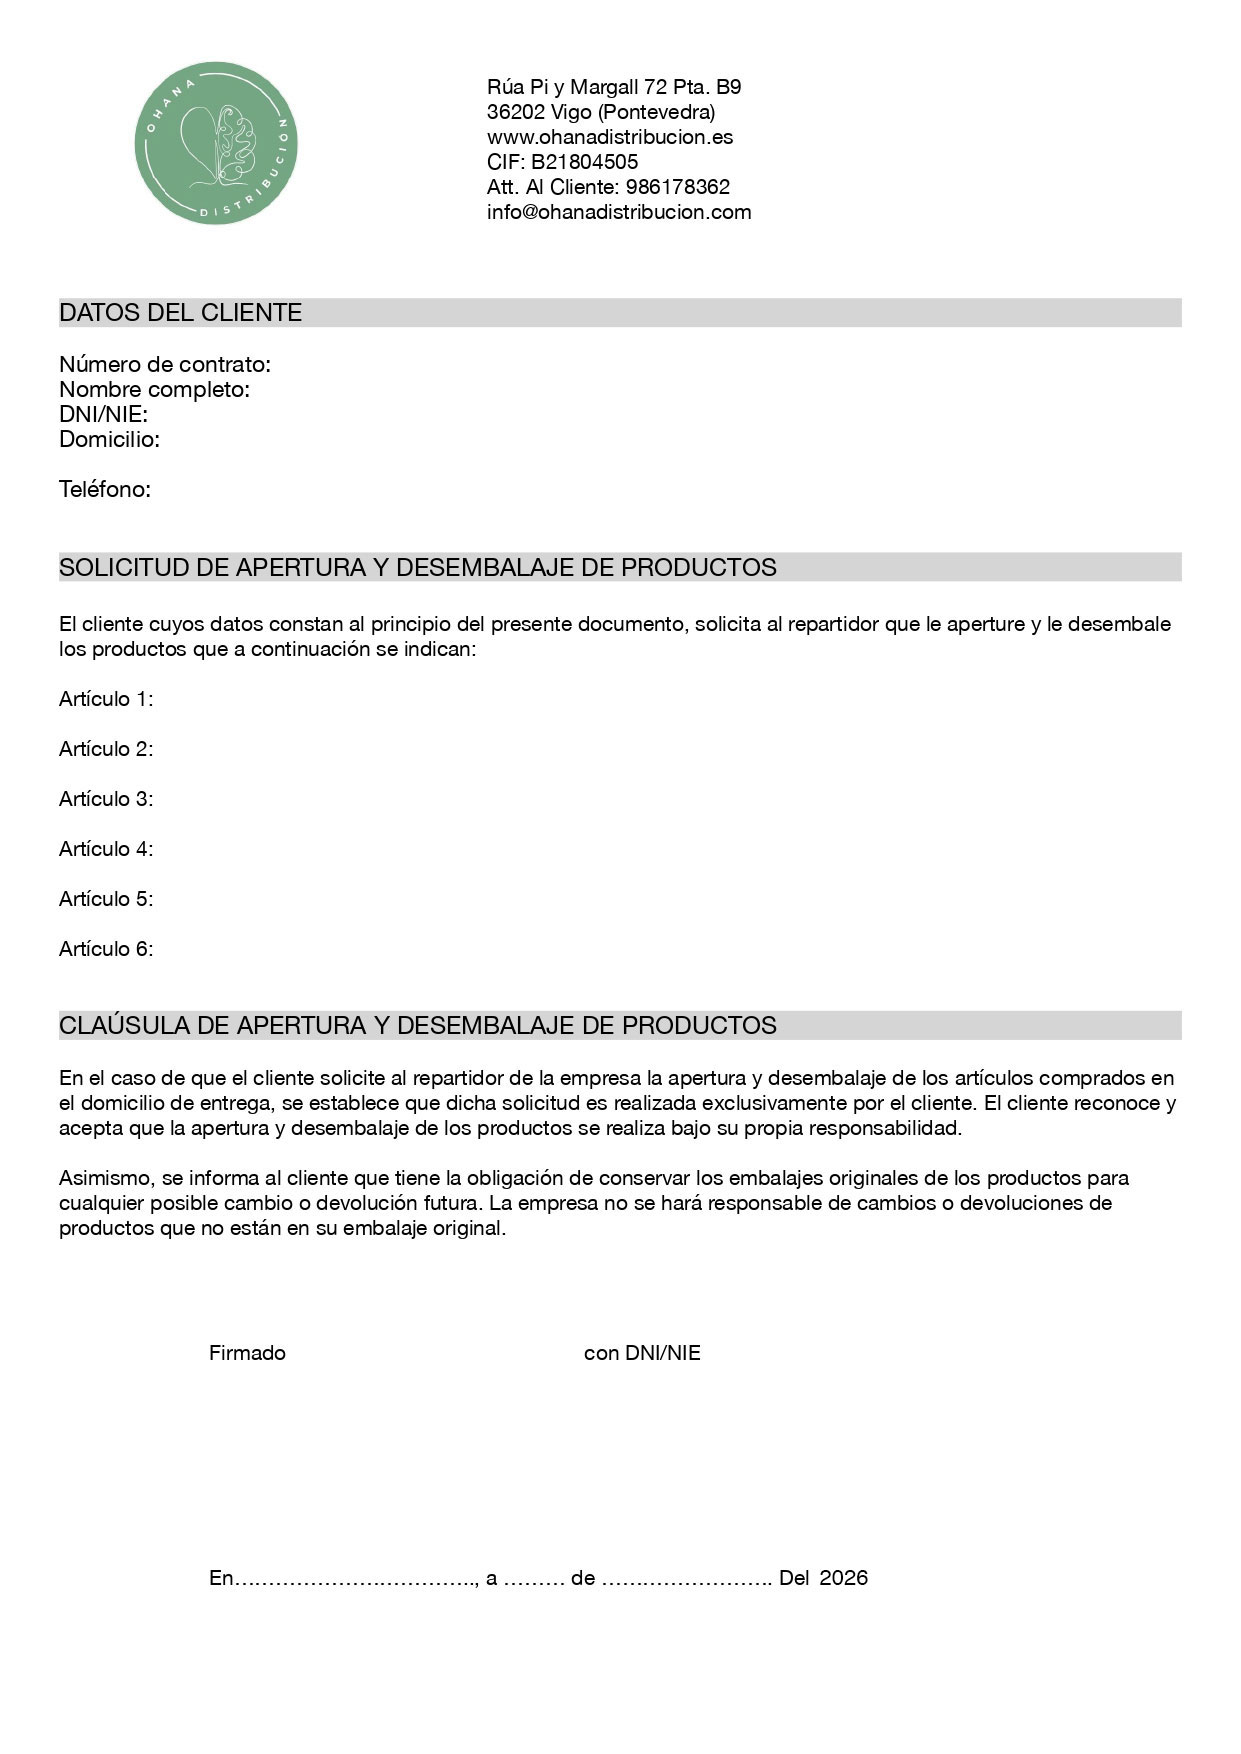
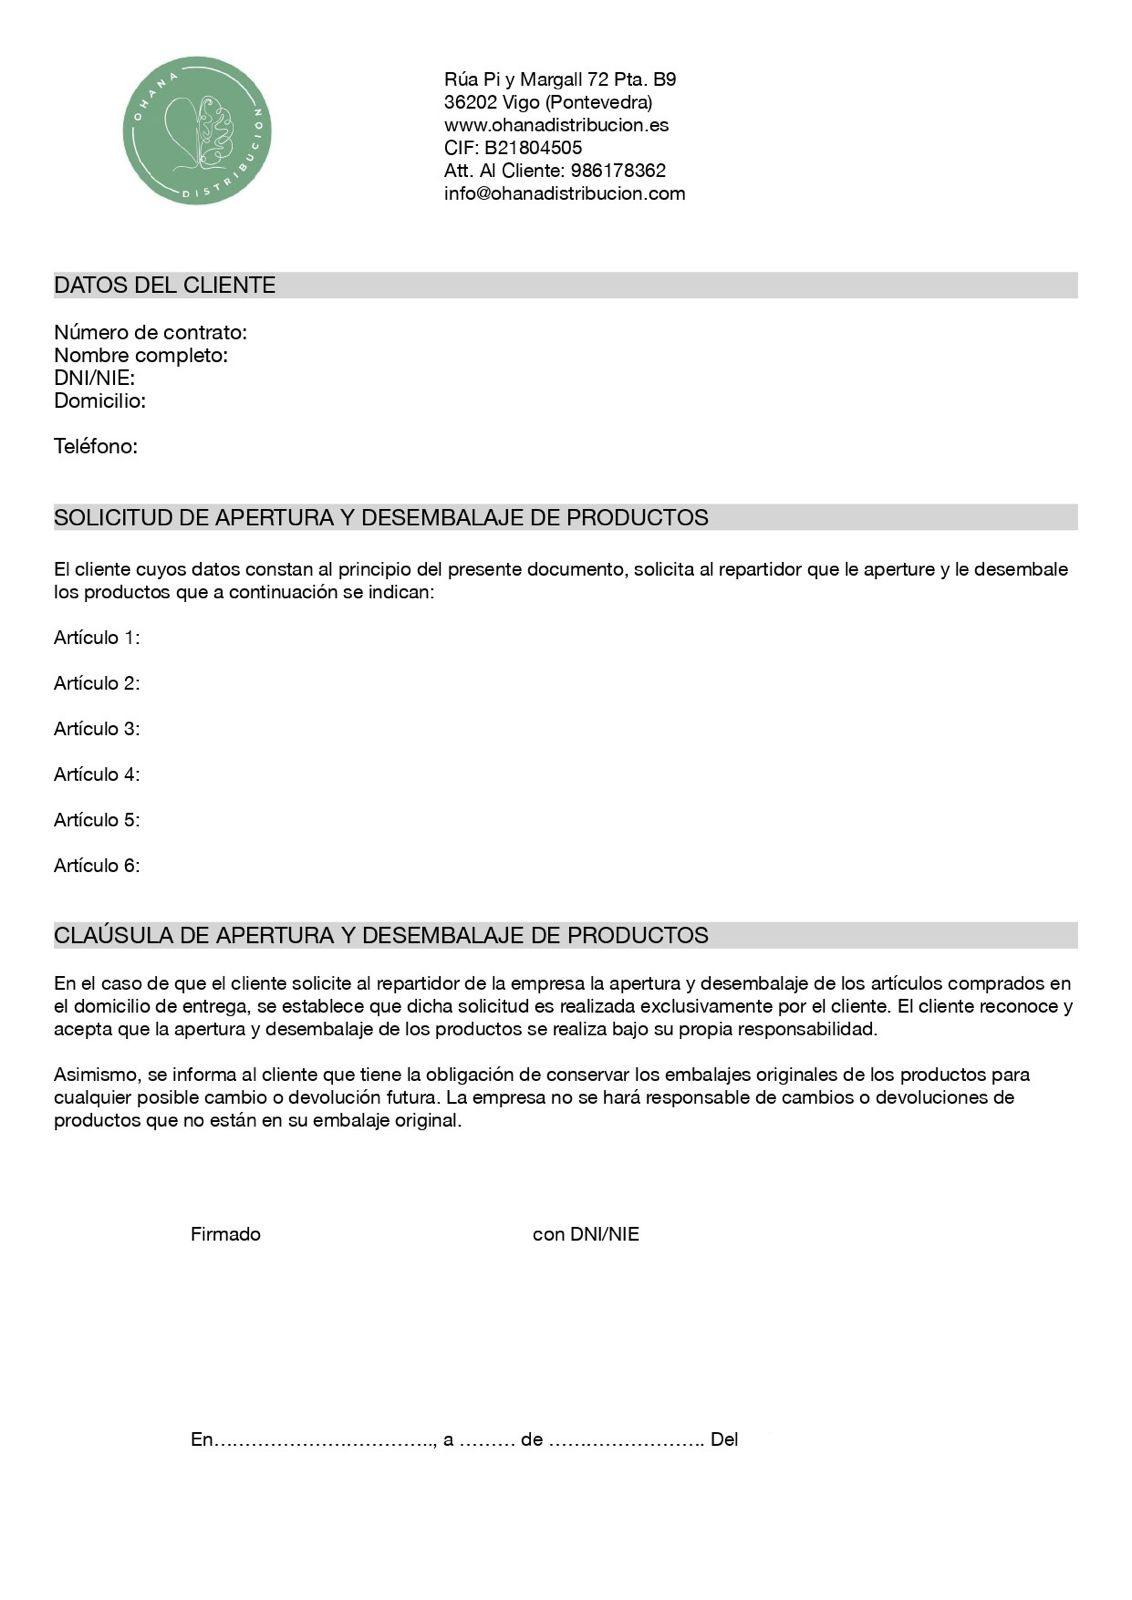
arreglo de fecha de contrato en el pdf de los contratos :sparkles:

Changed region(s): [[0.6802, 0.875, 0.7111, 0.9062]]

diff --git a/resources/views/pdf_pos.blade.php b/resources/views/pdf_pos.blade.php
@@ -275,6 +275,34 @@
 
     // ===== Pasadas: 0 = Original (con anexos), 1 = Copia (con anexos, sin productos ni importes), 2 = Copia-B (igual que copia, pero nro_contr_adm -B) =====
     $__passes = [0, 1, 2];
+
+    // ===== Año del contrato (año de la fecha de venta) =====
+    // Ajusta el campo de fecha según tu modelo: fecha_venta / sale_date / created_at, etc.
+    $fechaVenta = $venta->fecha_venta
+        ? Carbon::parse($venta->fecha_venta)
+        : Carbon::parse($venta->created_at);
+
+    $anioContrato = $fechaVenta->format('Y');
+
+    // ===== Footer (abajo) =====
+    $yYear = (float) request('yyear', 283.0); // mm (casi al final de la hoja A4)
+    $xYear = (float) request('xyear', 122.0); // centro horizontal (105mm en A4)
+    $wYear = (float) request('wyear', 60.0);  // ancho del bloque para centrar texto
+
+    $anioContrato2 = $fechaVenta->format('Y');
+
+    // ===== Footer (abajo) =====
+    $yYear2 = (float) request('yyear', 283.0); // mm (casi al final de la hoja A4)
+    $xYear2 = (float) request('xyear', 99.0); // centro horizontal (105mm en A4)
+    $wYear2 = (float) request('wyear', 60.0);  // ancho del bloque para centrar texto
+
+    $anioContrato3 = $fechaVenta->format('Y');
+
+    // ===== Footer (abajo) =====
+    $yYear3 = (float) request('yyear', 265.0); // mm (casi al final de la hoja A4)
+    $xYear3 = (float) request('xyear', 143.0); // centro horizontal (105mm en A4)
+    $wYear3 = (float) request('wyear', 60.0);  // ancho del bloque para centrar texto
+
 @endphp
 
 <!DOCTYPE html>
@@ -493,6 +521,12 @@
                     style="top:{{ $yFirmas }}mm; left:{{ $xFirmaEmp }}mm; width:{{ $wFirma }}mm; text-align:center;"></div>
             </div>
 
+            <div class="field"
+                style="top:{{ $yYear }}mm; left:{{ $xYear }}mm; width:{{ $wYear }}mm; text-align:center; transform:translateX(-50%);">
+                {{ $anioContrato }}
+            </div>
+
+
             {{-- Firma de la Empresa (imagen) --}}
             <img class="sig" src="{{ str_replace('\\', '/', public_path('images/FirmaEmpresa.png')) }}" alt="Firma Empresa"
                 style="top: {{ $yFirmas - 18 }}mm; left: {{ $xFirmaEmp + 5 }}mm; width: 35mm; height: auto;" />
@@ -504,6 +538,10 @@
             <div class="surface" style="transform: translate({{ $dx }}mm, {{ $dy }}mm) scale({{ $sx }}, {{ $sy }});">
                 <div class="field" style="top:{{ $yP2_Dni }}mm; left:{{ $xP2_Dni }}mm;">
                     {{ strtoupper($venta->customer->dni ?? '') }}</div>
+            </div>
+            <div class="field field --sm"
+                style="top:{{ $yYear2 }}mm; left:{{ $xYear2 }}mm; width:{{ $wYear2 }}mm; text-align:center; transform:translateX(-50%);">
+                {{ $anioContrato2 }}
             </div>
 
         </div>
@@ -586,7 +624,12 @@
                 </div>
                 <div class="field" style="top:{{ $yAp_Tel }}mm; left:{{ $xApTel }}mm;">{{ $telefonos }}</div>
                 <div class="field" style="top:{{ $yAp_Dni2 }}mm; left:{{ $xApDni2 }}mm;">
-                    {{ strtoupper($venta->customer->dni ?? '') }}</div>
+                    {{ strtoupper($venta->customer->dni ?? '') }}
+                </div>
+                <div class="field field --sm"
+                style="top:{{ $yYear3 }}mm; left:{{ $xYear3 }}mm; width:{{ $wYear3 }}mm; text-align:center; transform:translateX(-50%);">
+                {{ $anioContrato3 }}
+                </div>
             </div>
 
         </div>
